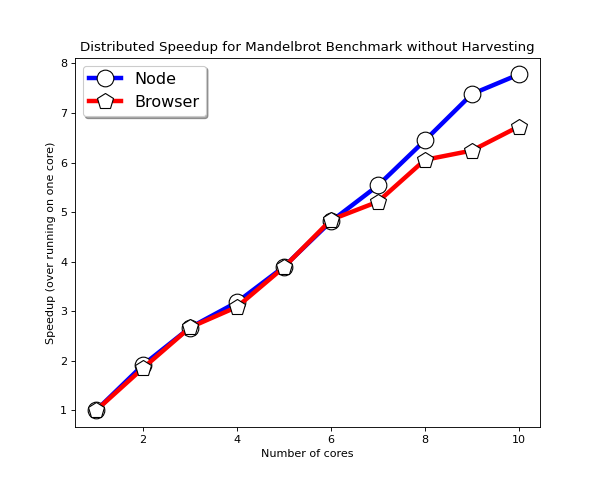
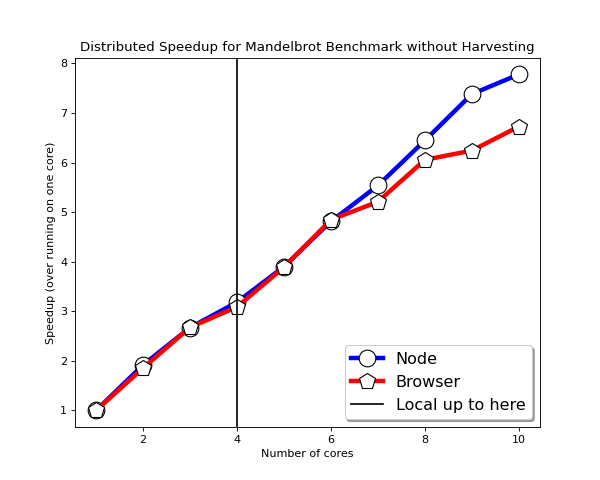
Added abstract

Changed region(s): [[0.57, 0.7188, 0.9, 0.9062], [0.12, 0.125, 0.36, 0.25], [0.39, 0.125, 0.42, 0.875]]

diff --git a/documentation/fyp-report/fyp.tex b/documentation/fyp-report/fyp.tex
@@ -89,7 +89,7 @@ your acknowledgements
 \end{acknowledgements}
        
 \begin{abstract}
-an abstract
+This dissertation explores the suitability of the actor model when used to bring concurrency and parallelism to JavaScript. Actors are concurrent isolated units of computation which process messages using their predefined behaviour. The implementation takes the form of API’s for both the Node.js and browser environments respectively, allowing developers to intuitively reason about engineering JavaScript programs through the spawning and sending of messages to actors. Isolated actors can be safely spawned on remote devices over a network as well as utilise multiple cores on a local processor.  This allows for distributed and parallel computation which shorten the time taken on executing computationally intensive tasks. A WebSocket server is used to connect a finite number of nodes and browsers hosting actors over the network. Faster communication links are explored using IPC when utilising multiple cores on a local device. The framework abstracts the adaptive use of different communication links and provides location transparency for remote actors. Benchmarks analyse the framework’s performance when used on a single instance using Node.js and a browser, as well as the reasonable speedup introduced when utilising additional local or distributed cores working on the same task. Providing an intuitive method to distribute computation across websites and server-side instances have wide-reaching applications. Websites can have actors running on visiting clients to assist in computationally intensive tasks. Nowadays, browsers are found on conventional devices as well devices such as smart fridges and TV’s, each of which able to run JavaScript defined behaviour for actors. The increasingly popular Node.js environment for server-side applications would be able to host actors which can communicate with actors hosted on browsers, enabling uniform and flexible scaling of applications. The limitations of the framework are discussed as well as its untapped potential when it comes to freezing and migrating actors across the web.
 \end{abstract}
 
 \tableofcontents
@@ -105,13 +105,16 @@ an abstract
 \chapter{Introduction}
 \section{Motivation}
 %Why JavaScript
-JavaScript~\cite{ecmascript} is widely used for client applications on the browser and benefits from a growing popularity of server-side applications using environments such as Node.js. It is a single threaded language which lacks an intuitive way to program in a parallel and distributed fashion. This dissertation presents a prototype that implements a JavaScript framework which allows developers to build actor-based systems. Developers can use actors as concurrent units of computation which can be deployed either locally or remotely on multiple node runtimes and browsers. This will allow developers to intuitively distribute work amongst multiple processors and devices to fully utilise the hardware usually available in servers and modern computers.
+JavaScript~\cite{ecmascript} is widely used for client applications on the browser and benefits from a growing popularity of server-side applications using environments such as Node.js. It is a single threaded language which lacks an intuitive way to program in a parallel and distributed fashion. This dissertation presents a prototype that implements a JavaScript framework which allows developers to build actor-based systems. Developers can use actors as concurrent units of computation which can be deployed either locally or remotely on multiple node runtimes and browsers. This will allow developers to intuitively distribute work amongst multiple processors and devices to fully utilise the hardware available in servers and modern computers.
 
 %Why Actors
-Actors~\cite{hewitt1973session}\cite{43years} communicate with each other through messages which are stored in the receiving actor's message queue. A message is processed by executing its defined actor behaviour. The Actor Model is a good fit for JavaScript's event loop~\cite{eventloopbrowser}\cite{eventloopnode} since they are both event driven. The Actor Model has already achieved success in the telecommunications industry and is more recently used for implementing distributed systems in languages such as Erlang and Scala/Akka~\cite{haller2012integration}.
+Actors~\cite{hewitt1973session}\cite{43years} communicate with each other through messages which are stored in the receiving actor's message queue. A message is processed by executing its defined actor behaviour. The Actor Model is a good fit for JavaScript's event loop~\cite{eventloopbrowser}\cite{eventloopnode} as they are both event driven. The Actor Model has already achieved success in the telecommunications industry and is more recently used for implementing distributed systems in languages such as Erlang and Scala/Akka~\cite{haller2012integration}.
+
+%The Framework
+JavaScript allows developers to import exported variables and functions from different files. The developed prototype takes the form of an API exposed through the use of exported functions. This will abstract the prototype's mechanisms required to spawn and interact with actors, allowing developers to intuitively make use of the actor model in their code. A framework will be provided for the browser and Node.js environment respectively
 
 \section{Objectives}
-This dissertation will explore the suitability of the Actor Model when used to reason about distributed and concurrent systems in JavaScript through the use of one or multiple prototypes. The framework's suitability is based on its performance, scalablity, and intuitiveness to use. The objectives of the artifact are as follows.
+This dissertation will explore the suitability of the Actor Model when used to reason about distributed and concurrent systems in JavaScript through the use of the developed prototypes. The framework's suitability is based on its performance, scalablity, and intuitiveness to use. The objectives of the artifact are as follows.
 \begin{enumerate}
     \item Allow developers to easily define and spawn actors through the framework API on Node.js or a browser. Actors should be able to send messages to other actors as well as spawn more actors. Full interoperability should be offered when using the framework across the two environments.
     \item Allow for spawning and interacting with actors on different Node.js processes through different network links. Node.js cluster\cite{cluster} can be used for IPC between node processes, while WebWorkers\cite{webworkers} can be used for communication between the primary thread and its spawned workers. When such communicaiton links are not available, the network stack is involved by using WebSockets for flexible communication to link remote processes and devices.
@@ -137,18 +140,16 @@ Nowadays, several variants of the actor model are used to fit the requirements o
 \section{Similar Work}
 Several JavaScript frameworks which implement the Actor model are already available on the node package manager (npm) and in public git repositories.
 
-Clooney~\cite{clooney} is described as an actor library for the browser by the Google Chrome team. It offers an API that takes in classes with functions inside which will be instantiated in a worker. Developers can call the defined functions inside the actors as if they were a regular class. This library acts more as an intuitive way around using the Web Worker API to offer parallelism rather than a fully fledged actor library. 
+\textbf{Clooney}~\cite{clooney} is described as an actor library for the browser by the Google Chrome team. It offers an API that takes in classes with functions inside which will be instantiated in a worker. Developers can call the defined functions inside the actors as if they were a regular class. This library acts more as an intuitive way around using the Web Worker API to offer parallelism rather than a fully fledged actor library. 
 
-Nact~\cite{nact} is a more faithful implementation to the Actor model as it relies on message passing for communication between isolated actors rather than Clooney's function calls. One spawns an actor by defining a function with the state, message and system context as the parameters. The function will be called for every message that is sent to the spawned actor. Network transparency has not been implemented for nact, making it more complex to have actors spawned on remote devices over the internet.
+\textbf{Nact}~\cite{nact} is a more faithful implementation to the Actor model as it relies on message passing for communication between isolated actors rather than Clooney's function calls. One spawns an actor by defining a function with the state, message and system context as the parameters. The function will be called for every message that is sent to the spawned actor. Network transparency has not been implemented for nact, making it more complex to have actors spawned on remote devices over the internet.
 
 \textbf{Akka.js}~\cite{stivan2015akka} allows developers to cross-compile Akka to JavaScript browsers and server-side runtimes. This framework allows developers to build distributed applications using separate browsers using WebRTC~. It also incentivises developers to only be knowledgeable with Scala to deploy actors on both the browser and the server.
 
 A project similar to this dissertation's prototype is called \textbf{Spiders.js}~\cite{spidersjs}. The paper identifies the problem of different API's being used for web workers and child processes, both of which are inspired by the actor model for constructing parallel systems using JavaScript. This project is focused on defining a single actor model API no matter if it's a client or server-side application. The paper benchmarks the usage of Spiders.js against JavaScript native web workers as well as the actor creation overhead for both. The results are in favour of using web workers for such tasks. This is no surprise as the project is an abstraction built on top web workers on the client side.
 
-TigerQuoll~\cite{tigerquoll} took a different approach when providing parallelism to the language. It acknowledged the actor model as too limited for the requirements of more complex patterns that occur in modern applications. Instead it allows developers to use regular event based programming to register events for parallel processing. Other popular implementations on GitHub are Drama~\cite{drama} and Comedy~\cite{comedy}, both of which allow for sending messages to spawned actors. The latter implementation allows for spawning of actors on remote machines.
+\textbf{TigerQuoll}~\cite{tigerquoll} took a different approach when providing parallelism to the language. It acknowledged the actor model as too limited for the requirements of more complex patterns that occur in modern applications. Instead it allows developers to use regular event based programming to register events for parallel processing. Other popular implementations on GitHub are \textbf{Drama}~\cite{drama} and \textbf{Comedy}~\cite{comedy}, both of which allow for sending messages to spawned actors. The latter implementation allows for spawning of actors on remote machines.
 \chapter{Design}
-The design chapter is split into three sections. The first section presents a high level overview of the API's features. The following section presents examples on how to use the framework's features through the use of code segments and explanations. The final section delves into the design decisions of the internal framework code which is abstracted by the API.
-\section{API Features}
 The API’s goal is to allow developers to intuitively engineer concurrent and parallel code in JavaScript through the actor model. The developer can define how an actor will process each message using a callback function, and spawn it on a JavaScript runtime. This runtime can be either local or remote, and it can run on a Node.js instance or any modern browser with full interoperability. Programs will be made up of multiple spawned isolated actors, similar to the micro-services approach adopted by the industry. Each actor will be serving incoming requests (messages) and can optionally send messages to other actors such as the sender. Furthermore, an actor can spawn other actors and send the reference to the newly spawned actors to other actors embedded inside a message.
 
 \begin{figure}[H]
@@ -176,77 +177,9 @@ The API also allows the developer to spawn Node.js Cluster processes and Web Wor
         \caption{WebSocket Connection Establishment with Spawned Workers}
     \end{centering}
 \end{figure}
-\section{Using the API}
-This section explores each of the functions that the framework exposes which developers will interact with to make use of the Actor Model in JavaScript. Using ES6 Modules the functions are imported as follows.
-\begin{lstlisting}
-import actors from './actors.js';
-const { init, spawn, spawnRemote, terminate, send} = actors
-\end{lstlisting}
-\subsection{Spawning Local Actors}
-When the developer calls the \textbf{spawn} function, they will pass in the actor's initial state as the first parameter. The actor will maintain this state throughout every processed message and it can be manipulated by its behaviour. As a second parameter the developer must specify the actor's behaviour which has the actor's current state, current processed message as well as the actor's self reference as parameters. Using these parameters, the developer can define how the behaviour should manipulate the actor's state or how the message contents should be processed. It also allows the actor to pass a reference of itself to other actors using the behaviour's third parameter.
 
-The example below defines the actor behaviour to print out each of the parameters. This function is used to spawn an actor with that behaviour, and a reference to that actor is returned.
-\begin{lstlisting}
-// Actor behaviour
-const pongBehaviour = (state, message, self) => {
-    console.log("My state object is " + state);
-    console.log("I'm processing the message object " + message);
-    console.log("Actor self reference " + self);
-};
-
-//Spawn an actor with the above behaviour and an initial state
-const pongReference = spawn({stateElement: "hello"}, pongBehaviour);
-\end{lstlisting}
-Note that with this implementation nothing is printed out, as the actor behaviour is only executed in response to a message which is sent to the spawned actor.
-\subsection{Sending Messages to Actors}
-The \textbf{send} function is used to send a message to an actor. It takes in the actor reference and message object to send as parameters.
-\begin{lstlisting}
-send(pongReference, {messageVal: "This is a message!"});
-\end{lstlisting}
-One of the framework's key features is location transparency. The framework internally identifies the fastest medium to use for message transportation and sends the message through that link.
-\subsection{Terminating Actors}
-An actor can be terminated using the \textbf{terminate} function. The function takes in the actor to terminate as the first parameter. The actor will process its remaining queued messages as these are events already queued in the browser or Node.js's event loop. To forcefully terminate an actor, the second parameter can be set to true which will deactivate the actor. When the events are processed, the actor will perform minimal work ignoring the messages.
-\begin{lstlisting}
-terminate(pingReferece, false)      //forceful termination
-terminate(pongReference, false)     //non-forceful termination
-\end{lstlisting}
-\subsection{Connecting Processes to the Network}
-The \textbf{init} function handles the spawning of worker processes as well as connections with other Node.js and browser runtimes through WebSockets.
-\begin{lstlisting}
-//Connect to local WebSocket server and spawn four processes. Wait 10000ms for all processes to connect
-init('ws://localhost:8080', 10000, 4).then(ready => {
-    if (ready.yourNetworkNumber === 1) {
-        //Code for node 1 to execute
-    }
-})
-\end{lstlisting}
- 
-The first parameter takes in the url of the WebSocket server. The second parameter is the timeout, which defines how long the client will wait for all clients to connect to the network. The third and final parameter is the number of workers that are to be spawned. Each of these workers will connect to the WebSocket server.
-
-Once all clients connect to the server, the server broadcasts a message indicating that it is ready to receive and forward communication to connected clients. This message has embedded within it information about the connected clients' IP addresses and unique incrementally assigned network numbers, as well as the network number assigned to the client receiving the message. In the example above, four processes are spawned (given network numbers 2 to 5), so an if statement is used to define logic only executed by the primary process possessing network number 1.
-
-\subsection{Remotely Spawning Actors}
-After invoking \textbf{init}, the developer can use \textbf{spawnRemote} to remotely spawn actors in other connected clients. This function takes the network number of the client to spawn the actor in as the first parameter, the initial state as the second parameter and the actor behaviour as the final parameter.
-\begin{lstlisting}
-const pingPongBehaviour = (state, message, self) => {
-    console.log(message.val);
-    if(!(message.val-1 < 0))
-        send(message.replyTo, {val: message.val-1, replyTo: self});
-};
-//Specify timeout and number of workers to spawn
-init('ws://localhost:8080', 10000, 2).then(async ready => {
-    //The primary node always connects first
-    if(ready.yourNetworkNumber === 1){
-        const ping = await spawnRemote(2, {}, pingPongBehaviour);
-        const pong = await spawnRemote(3, {}, pingPongBehaviour);
-        //Send ping a message. Output will be decrementing values from 5 to 0
-        send(ping, {replyTo: pong, val: 5})
-    }
-});
-\end{lstlisting}
-In the example above, nodes 2 and 3 are the workers that the primary node spawned. Node 1 sends requests to the spawned workers to spawn actors. The \textbf{spawnRemote} function returns a Promise which is resolved once the actor is remotely spawned and an acknowledgement is returned. The promise resolves into an actor reference which has embedded information indicating that this is a remote node. This enables location transparency when sending to the actor, as the developer need not be aware of whether the actor reference points to a local or remote actor. Instead, communication is handled internally by the framework.
-\section{Internal Framework Logic}
-\subsection{Composition of an Actor}
+\chapter{Implementation}
+\section{Composition of an Actor}
 The first decision taken when designing the actor framework is what an actor is composed of. An actor takes the form of an object which contains its maintained state as well as its behaviour as an executable function. Each actor stores a name so that it can be uniquely identified when sending messages to. The network node it resides in as well as whether it is accepting messages are also stored. For every spawned actor, the following information is stored.
 \begin{lstlisting}
 //TypeScript object interface for an Actor
@@ -265,7 +198,7 @@ interface ActorFacade {
     node: number    //finds the client
 }
 \end{lstlisting}
-\subsection{Communicating with an Actor}
+\section{Communicating with an Actor}
 Using the returned ActorFacade object from the \textbf{spawn}, an actor can be uniquely identified across the web. The developer puts in the actor reference insied the \textbf{send} function to send that actor a message. Internally, the framework looks at the actor reference's node number. If it matches the client's network number it resides in, then it will queue the local actor's behaviour on the runtime's event loop. 
 
 If the actor resides in a remote node, it creates a payload to send over the network. When the \textbf{init} function is used, the developer can choose to spawn a number of child processes or web workers. Each of the spawned workers will send to the spawner (primary node) their network number assigned by the WebSocket network. The primary node will then inform each of the spawned workers of their neighbouring spawned processes. This is so that spawned processes can communicate with each other through the primary node using the cluster or web worker API instead of the WebSocket network to avoid the network stack. If the actor resides on a separate device or group of spawned processes, it resorts to using the WebSocket network.
@@ -275,11 +208,11 @@ If the actor resides in a remote node, it creates a payload to send over the net
         \caption{Choosing the Communication Link Flowchart}
     \end{centering}
 \end{figure}
-\subsection{Remote Spawning Mechanism}
+\section{Remote Spawning Mechanism}
 The \textbf{spawnRemote} function sends a request to spawn an actor to the remote node. The request has embedded within it the string representation of its behaviour which is reconstructed as a function on the recipient end. Just like the \textbf{send} function, it chooses the fastest transport mechanism to send the spawn request. The primary node is internally aware of the network numbers of the worker nodes it spawned, so it will make use of Cluster IPC to send these requests rather than the slower established WebSocket link through the network.
 
 On the recipient side, the node will spawn an actor with that behaviour. It locally generates the spawned actor's name, and sends an acknowledgement to the remote spawner. Once this acknowledgement is received by the spawner, it constructs the actor reference using the received actor name and resolves the promise. This allows developers to use JavaScript async/await to suspend the function until the actor is spawned remotely, or use Promise.then to have a callback function execute once this acknowledgement is received. The developer is not allowed to interact with the remote actor until the acknowledgement is received. 
-\subsection{Actor Runtime}
+\section{Actor Runtime}
 The JavaScript event loop is responsible for executing the application code. The runtime has a queue of messages where each message is mapped to a function which processes that message. The event loop waits for the arrival of a message and processes the queue of messages when there is a backlog. Each message is processed to completion before other messages are processed. The Actor Model also maps messages onto functions which act as message handlers. Therefore, the framework's implementation takes advantage of the similar philosophies between the JavaScript runtime and the Actor Model.
 
 The actors maintain their own message queue in an array. Once a message is received by an actor, it will schedule the processing of the message on the JavaScript event loop. This is done by scheduling a microtask which executes before the start of the next event loop~\cite{eventloopbrowser}\cite{eventloopnode}. The microtask is scheduled by creating a promise which is immediately resolved. This behaviour is similar to using Node.js' \textbf{process.nextTick()}~\cite{nexttick}. This is more efficient than using the JavaScript \textbf{setTimeout()} function as that is scheduled as a macrotask which would execute in the following event loop.
@@ -322,17 +255,79 @@ This chapter evaluates the developed prototype's performance when executing comp
         \caption{Browser Speedup for Parallel Benchmarks}
     \end{centering}
 \end{figure}
-\chapter{Conclusion}
+\chapter{Conclusions and Future Work}
 
 \appendix
 
-\chapter{This chapter is in the appendix}
-\section{These are some details}
-%%example of the code environment
+\chapter{Manual}
+This section explores each of the functions that the framework exposes which developers will interact with to make use of the Actor Model in JavaScript. Using ES6 Modules the functions are imported as follows.
 \begin{lstlisting}
-this is some code;
-I hope you found this template useful.
+import actors from './actors.js';
+const { init, spawn, spawnRemote, terminate, send} = actors
 \end{lstlisting}
+\section{Spawning Local Actors}
+When the developer calls the \textbf{spawn} function, they will pass in the actor's initial state as the first parameter. The actor will maintain this state throughout every processed message and it can be manipulated by its behaviour. As a second parameter the developer must specify the actor's behaviour which has the actor's current state, current processed message as well as the actor's self reference as parameters. Using these parameters, the developer can define how the behaviour should manipulate the actor's state or how the message contents should be processed. It also allows the actor to pass a reference of itself to other actors using the behaviour's third parameter.
+
+The example below defines the actor behaviour to print out each of the parameters. This function is used to spawn an actor with that behaviour, and a reference to that actor is returned.
+\begin{lstlisting}
+// Actor behaviour
+const pongBehaviour = (state, message, self) => {
+    console.log("My state object is " + state);
+    console.log("I'm processing the message object " + message);
+    console.log("Actor self reference " + self);
+};
+
+//Spawn an actor with the above behaviour and an initial state
+const pongReference = spawn({stateElement: "hello"}, pongBehaviour);
+\end{lstlisting}
+Note that with this implementation nothing is printed out, as the actor behaviour is only executed in response to a message which is sent to the spawned actor.
+\section{Sending Messages to Actors}
+The \textbf{send} function is used to send a message to an actor. It takes in the actor reference and message object to send as parameters.
+\begin{lstlisting}
+send(pongReference, {messageVal: "This is a message!"});
+\end{lstlisting}
+One of the framework's key features is location transparency. The framework internally identifies the fastest medium to use for message transportation and sends the message through that link.
+\section{Terminating Actors}
+An actor can be terminated using the \textbf{terminate} function. The function takes in the actor to terminate as the first parameter. The actor will process its remaining queued messages as these are events already queued in the browser or Node.js's event loop. To forcefully terminate an actor, the second parameter can be set to true which will deactivate the actor. When the events are processed, the actor will perform minimal work ignoring the messages.
+\begin{lstlisting}
+terminate(pingReferece, false)      //forceful termination
+terminate(pongReference, false)     //non-forceful termination
+\end{lstlisting}
+\section{Connecting Processes to the Network}
+The \textbf{init} function handles the spawning of worker processes as well as connections with other Node.js and browser runtimes through WebSockets.
+\begin{lstlisting}
+//Connect to local WebSocket server and spawn four processes. Wait 10000ms for all processes to connect
+init('ws://localhost:8080', 10000, 4).then(ready => {
+    if (ready.yourNetworkNumber === 1) {
+        //Code for node 1 to execute
+    }
+})
+\end{lstlisting}
+ 
+The first parameter takes in the url of the WebSocket server. The second parameter is the timeout, which defines how long the client will wait for all clients to connect to the network. The third and final parameter is the number of workers that are to be spawned. Each of these workers will connect to the WebSocket server.
+
+Once all clients connect to the server, the server broadcasts a message indicating that it is ready to receive and forward communication to connected clients. This message has embedded within it information about the connected clients' IP addresses and unique incrementally assigned network numbers, as well as the network number assigned to the client receiving the message. In the example above, four processes are spawned (given network numbers 2 to 5), so an if statement is used to define logic only executed by the primary process possessing network number 1.
+
+\section{Remotely Spawning Actors}
+After invoking \textbf{init}, the developer can use \textbf{spawnRemote} to remotely spawn actors in other connected clients. This function takes the network number of the client to spawn the actor in as the first parameter, the initial state as the second parameter and the actor behaviour as the final parameter.
+\begin{lstlisting}
+const pingPongBehaviour = (state, message, self) => {
+    console.log(message.val);
+    if(!(message.val-1 < 0))
+        send(message.replyTo, {val: message.val-1, replyTo: self});
+};
+//Specify timeout and number of workers to spawn
+init('ws://localhost:8080', 10000, 2).then(async ready => {
+    //The primary node always connects first
+    if(ready.yourNetworkNumber === 1){
+        const ping = await spawnRemote(2, {}, pingPongBehaviour);
+        const pong = await spawnRemote(3, {}, pingPongBehaviour);
+        //Send ping a message. Output will be decrementing values from 5 to 0
+        send(ping, {replyTo: pong, val: 5})
+    }
+});
+\end{lstlisting}
+In the example above, nodes 2 and 3 are the workers that the primary node spawned. Node 1 sends requests to the spawned workers to spawn actors. The \textbf{spawnRemote} function returns a Promise which is resolved once the actor is remotely spawned and an acknowledgement is returned. The promise resolves into an actor reference which has embedded information indicating that this is a remote node. This enables location transparency when sending to the actor, as the developer need not be aware of whether the actor reference points to a local or remote actor. Instead, communication is handled internally by the framework.
 
 
 \bibliomatter

diff --git a/benchmarks/visualisations/speedupgraph.py b/benchmarks/visualisations/speedupgraph.py
@@ -199,8 +199,8 @@ plt.plot(keys, mandelbrot_browser_speedup, '-p', color='red',
     markeredgecolor='black',
     markeredgewidth=1, label='Browser');
 
-legend = plt.legend(loc='upper left', shadow=True, fontsize='x-large')
-
+plt.axvline(x=4, ymin=0, ymax=10, color='black', label='Local up to here')
+legend = plt.legend(loc='lower right', shadow=True, fontsize='x-large')
 plt.locator_params(axis="x", integer=True, tight=True)
 plt.title('Distributed Speedup for Mandelbrot Benchmark without Harvesting')
 plt.xlabel('Number of cores')
